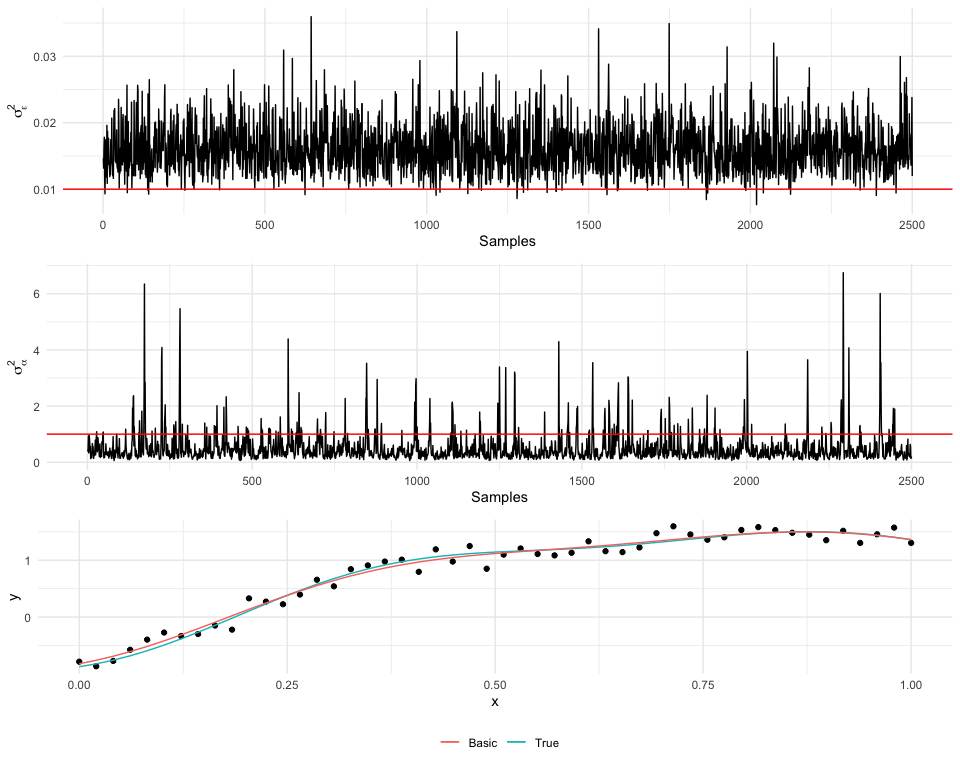
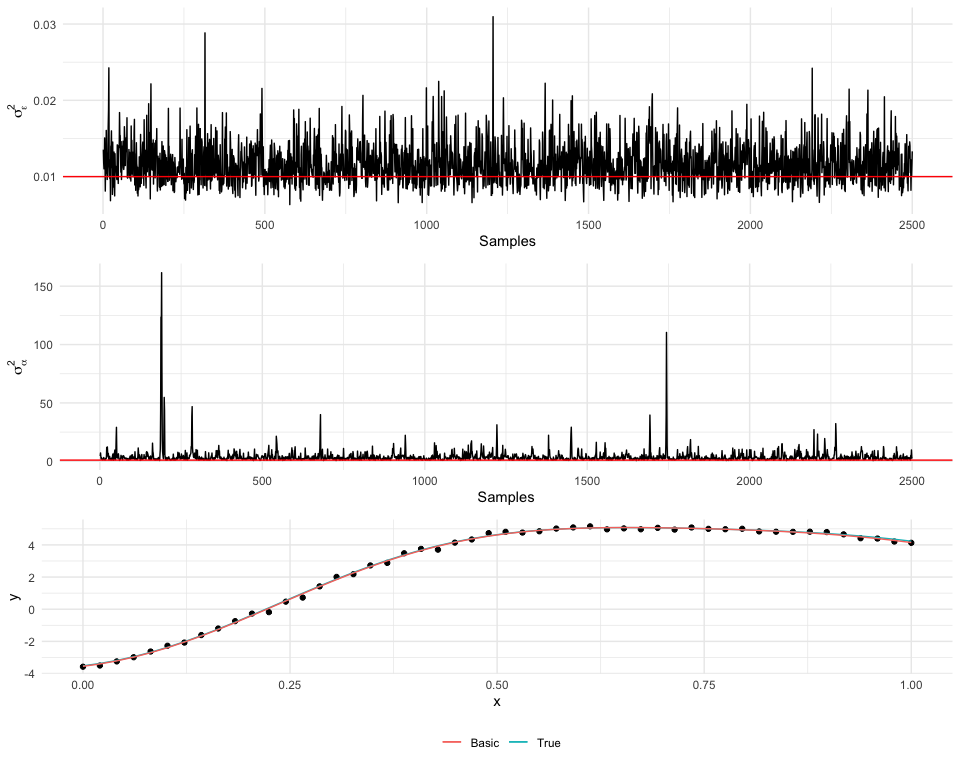
another example

diff --git a/README.md b/README.md
@@ -46,9 +46,9 @@
     ##  [21] "    sigma2_alpha2 <- runif(1, 1, 5)"                                                  
     ##  [22] "    sigma2_alpha3 <- runif(1, 1, 5)"                                                  
     ##  [23] "    "                                                                                 
-    ##  [24] "    alpha1 <- rnorm(m1, 0, stddev[1])"                                                
-    ##  [25] "    alpha2 <- rnorm(m2, 0, stddev[2])"                                                
-    ##  [26] "    alpha3 <- rnorm(m3, 0, stddev[3])"                                                
+    ##  [24] "    alpha1 <- rnorm(m1, 0, 1)"                                                        
+    ##  [25] "    alpha2 <- rnorm(m2, 0, 1)"                                                        
+    ##  [26] "    alpha3 <- rnorm(m3, 0, 1)"                                                        
     ##  [27] "    "                                                                                 
     ##  [28] "    Z1 <- make_kernel(x, knots$knots1, stddev[1])"                                    
     ##  [29] "    Z2 <- make_kernel(x, knots$knots2, stddev[2])"                                    
